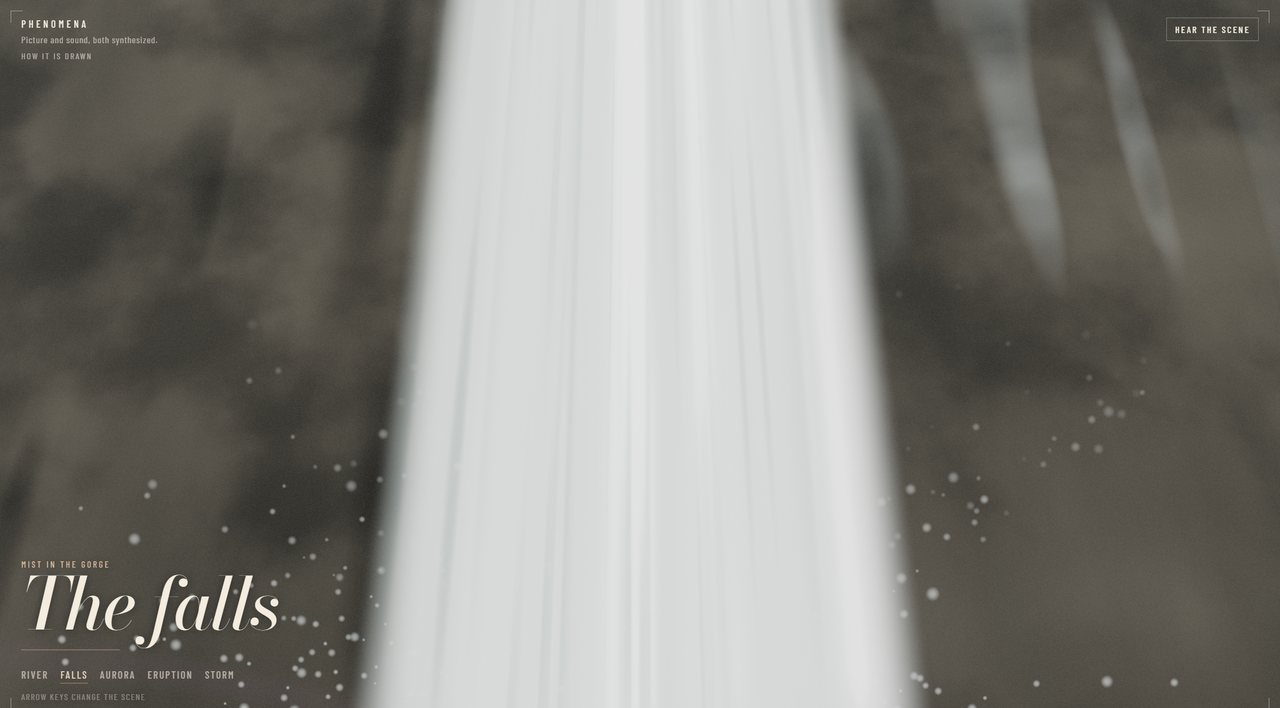
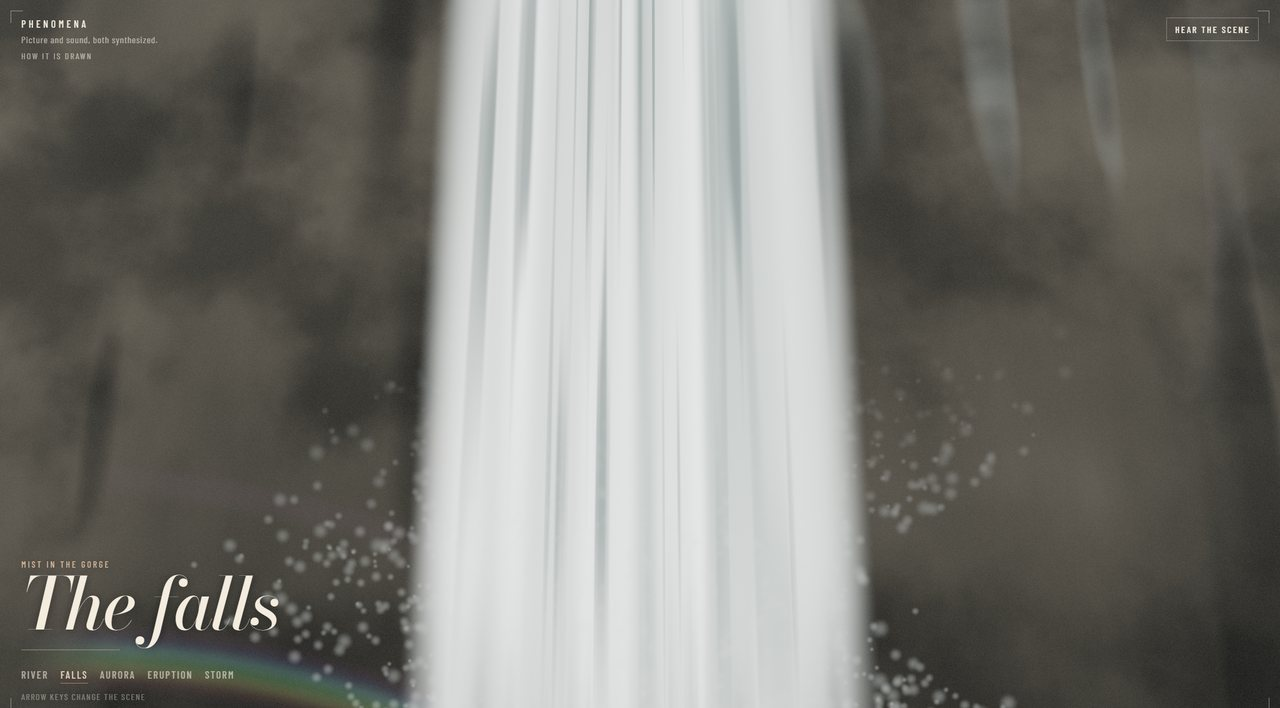
Make the scenes read more like photographs.
The sea uses smooth wave normals instead of the mesh facets, the river glitter is finer, the falls break into streaks, and the lava crust stays visible across the lake.

diff --git a/src/scenes/storm.js b/src/scenes/storm.js
@@ -47,7 +47,7 @@ export function createStorm() {
   const sky = createSky({ mode: 2, sun })
   root.add(sky.mesh)
 
-  const seaGeo = new THREE.PlaneGeometry(220, 220, 180, 180)
+  const seaGeo = new THREE.PlaneGeometry(220, 220, 280, 280)
   seaGeo.rotateX(-Math.PI / 2)
   const seaMat = new THREE.ShaderMaterial({
     uniforms: {
@@ -59,17 +59,17 @@ export function createStorm() {
     vertexShader: /* glsl */ `
       varying vec3 vWorld;
       uniform float uTime;
-      float wave(vec2 p) {
+      float seaH(vec2 p) {
         float h = 0.0;
-        h += sin(dot(p, vec2(0.16, 0.22)) + uTime * 0.55) * 0.42;
-        h += sin(dot(p, vec2(-0.31, 0.12)) + uTime * 0.8) * 0.22;
-        h += sin(dot(p, vec2(0.08, 0.48)) + uTime * 1.15) * 0.1;
-        h += sin(dot(p, vec2(0.7, -0.2)) + uTime * 1.5) * 0.04;
+        h += sin(dot(p, vec2(0.16, 0.22)) + uTime * 0.55) * 0.36;
+        h += sin(dot(p, vec2(-0.31, 0.12)) + uTime * 0.8) * 0.18;
+        h += sin(dot(p, vec2(0.55, 0.18)) + uTime * 1.15) * 0.07;
+        h += sin(dot(p, vec2(1.1, -0.45)) + uTime * 1.7) * 0.028;
         return h;
       }
       void main() {
         vec3 pos = position;
-        pos.y = wave(pos.xz);
+        pos.y = seaH(pos.xz);
         vec4 world = modelMatrix * vec4(pos, 1.0);
         vWorld = world.xyz;
         gl_Position = projectionMatrix * viewMatrix * world;
@@ -82,22 +82,35 @@ export function createStorm() {
       uniform float uFlash;
       uniform vec3 uSun;
       uniform vec3 uMoon;
+      float seaH(vec2 p) {
+        float h = 0.0;
+        h += sin(dot(p, vec2(0.16, 0.22)) + uTime * 0.55) * 0.36;
+        h += sin(dot(p, vec2(-0.31, 0.12)) + uTime * 0.8) * 0.18;
+        h += sin(dot(p, vec2(0.55, 0.18)) + uTime * 1.15) * 0.07;
+        h += sin(dot(p, vec2(1.1, -0.45)) + uTime * 1.7) * 0.028;
+        return h;
+      }
       void main() {
-        vec3 n = normalize(cross(dFdy(vWorld), dFdx(vWorld)));
-        if (dot(n, cameraPosition - vWorld) < 0.0) n = -n;
+        vec2 p = vWorld.xz;
+        float e = 0.18;
+        float h0 = seaH(p);
+        vec3 n = normalize(vec3(-(seaH(p + vec2(e, 0.0)) - h0) / e, 1.0, -(seaH(p + vec2(0.0, e)) - h0) / e));
+        float micro = vnoise(p * 2.8 + vec2(uTime * 0.15, -uTime * 0.08));
+        n = normalize(n + vec3(-dFdx(micro), 0.0, -dFdy(micro)) * 0.45);
         vec3 I = normalize(vWorld - cameraPosition);
         vec3 R = reflect(I, n);
         vec3 env = skyColor(R, uSun, uMoon, uTime, 2.0, uFlash, 0.0);
         float fres = pow(1.0 - max(dot(-I, n), 0.0), 5.0);
-        fres = mix(0.06, 1.0, fres);
-        vec3 deep = vec3(0.012, 0.02, 0.026);
-        vec3 col = mix(deep, env * vec3(0.55, 0.6, 0.64), fres);
-        float crest = smoothstep(0.42, 0.72, vWorld.y);
-        float foamNoise = vnoise(vWorld.xz * 1.4 + vec2(uTime * 0.15, -uTime * 0.05));
-        col = mix(col, vec3(0.62, 0.66, 0.68), crest * foamNoise * 0.65);
-        col += vec3(0.55, 0.6, 0.66) * uFlash * (0.18 + fres * 0.45);
-        float dist = length(vWorld.xz);
-        col = mix(col, vec3(0.16, 0.17, 0.18), 1.0 - exp(-dist * 0.012));
+        fres = mix(0.05, 1.0, fres);
+        vec3 deep = vec3(0.01, 0.018, 0.024);
+        vec3 col = mix(deep, env * vec3(0.45, 0.5, 0.55), fres);
+        float crest = smoothstep(0.22, 0.48, h0);
+        float foam = crest * smoothstep(0.55, 0.82, vnoise(p * 1.8 + vec2(uTime * 0.12, 0.0)));
+        foam *= smoothstep(0.35, 0.7, vnoise(vec2(dot(p, vec2(0.7, 0.2)) * 0.4, uTime * 0.05)));
+        col = mix(col, vec3(0.55, 0.58, 0.6), foam * 0.7);
+        col += vec3(0.55, 0.6, 0.66) * uFlash * (0.15 + fres * 0.5);
+        float dist = length(p);
+        col = mix(col, vec3(0.12, 0.13, 0.145), 1.0 - exp(-dist * 0.01));
         gl_FragColor = vec4(col, 1.0);
       }
     `,

diff --git a/src/scenes/river.js b/src/scenes/river.js
@@ -64,7 +64,9 @@ export function createRiver() {
       void main() {
         vec3 n = normalize(vNormal);
         float h = fbm(vWorld.xz * 2.4);
-        n = normalize(n - dFdx(vWorld) * dFdx(h) * 3.0 - dFdy(vWorld) * dFdy(h) * 3.0);
+        float grit = vnoise(vWorld.xz * 16.0);
+        n = normalize(n - dFdx(vWorld) * dFdx(h) * 1.4 - dFdy(vWorld) * dFdy(h) * 1.4);
+        n = normalize(n - dFdx(vWorld) * dFdx(grit) * 0.08 - dFdy(vWorld) * dFdy(grit) * 0.08);
         float grain = fbm(vWorld.xz * 0.85);
         float fine = fbm(vWorld.xz * 6.0);
         vec3 mud = vec3(0.17, 0.11, 0.06);
@@ -72,7 +74,8 @@ export function createRiver() {
         vec3 forest = vec3(0.07, 0.09, 0.045);
         vec3 albedo = mix(mud, grass, smoothstep(-0.05, 0.7, vWorld.y));
         albedo = mix(albedo, forest, smoothstep(1.1, 3.4, vWorld.y));
-        albedo *= 0.82 + 0.28 * grain;
+        albedo *= 0.78 + 0.34 * grain;
+        albedo = mix(albedo, albedo * (0.82 + 0.28 * grit), 0.55);
         albedo = mix(albedo, albedo * 0.72, fine * 0.35);
         float wet = smoothstep(0.85, 0.02, vWorld.y);
         albedo = mix(albedo, albedo * vec3(0.32, 0.28, 0.22), wet);
@@ -159,10 +162,8 @@ export function createRiver() {
         vec2 perp = vec2(-flow.y, flow.x);
         vec2 uv1 = vec2(dot(vWorld.xz, perp) * 0.55, dot(vWorld.xz, flow) * 0.35 - uTime * 0.35);
         vec2 uv2 = vec2(dot(vWorld.xz, perp) * 1.3, dot(vWorld.xz, flow) * 0.8 - uTime * 0.62);
-        float h = vnoise(uv1 * 4.0) * 0.55 + vnoise(uv2 * 7.0) * 0.3 + vnoise(uv2 * 16.0) * 0.15;
-        float hx = dFdx(h);
-        float hy = dFdy(h);
-        vec3 n = normalize(vec3(-hx * 1.7, 1.0, -hy * 1.7));
+        float h = vnoise(uv1 * 5.0) * 0.45 + vnoise(uv2 * 9.0) * 0.25 + vnoise(uv2 * 22.0) * 0.12;
+        vec3 n = normalize(vec3(-dFdx(h) * 2.4, 1.0, -dFdy(h) * 2.4));
         vec3 I = normalize(vWorld - cameraPosition);
         vec3 R = reflect(I, n);
         vec3 env = skyColor(R, uSun, uMoon, uTime, 0.0, 0.0, 0.0);
@@ -176,7 +177,7 @@ export function createRiver() {
         float broad = pow(max(dot(n, halfV), 0.0), 36.0);
         float glint = step(0.8, vnoise(vWorld.xz * 16.0 + vec2(0.0, -uTime * 0.5)));
         vec3 spec = vec3(1.0, 0.78, 0.48);
-        col += spec * (tight * 3.2 + broad * 0.18 + broad * glint * 2.2);
+        col += spec * (tight * 1.6 + broad * 0.08 + broad * glint * 2.8);
         float foam = edge * (0.35 + 0.65 * vnoise(uv2 * 2.0));
         col = mix(col, vec3(0.85, 0.72, 0.58), foam * 0.28);
         float dist = length(vWorld - cameraPosition);

diff --git a/src/scenes/falls.js b/src/scenes/falls.js
@@ -107,8 +107,10 @@ function waterSheet(width, height, speed) {
         float spray = smoothstep(0.22, 0.0, uv.y);
         float alpha = edge * (0.78 + 0.18 * streak);
         alpha *= mix(1.0, 0.25 + fine * 0.75, spray);
-        vec3 col = mix(vec3(0.62, 0.7, 0.68), vec3(0.97, 0.98, 0.97), 0.35 + 0.65 * streak);
-        col = mix(col, vec3(0.35, 0.45, 0.44), smoothstep(0.55, 0.95, fine) * (1.0 - spray) * 0.45);
+        vec3 col = mix(vec3(0.42, 0.5, 0.48), vec3(0.93, 0.95, 0.94), streak);
+        float vein = smoothstep(0.62, 0.92, fine);
+        col = mix(col, vec3(0.18, 0.24, 0.23), vein * (1.0 - spray) * 0.72);
+        col += vec3(0.9, 0.95, 0.93) * streak * (1.0 - vein) * 0.25;
         gl_FragColor = vec4(col, clamp(alpha, 0.0, 0.94));
       }
     `,
@@ -202,7 +204,7 @@ export function createFalls() {
   pool.renderOrder = 2
   root.add(pool)
 
-  const mistCount = 900
+  const mistCount = 1800
   const mistGeo = new THREE.BufferGeometry()
   const seeds = new Float32Array(mistCount)
   const sizes = new Float32Array(mistCount)
@@ -210,7 +212,7 @@ export function createFalls() {
   const rng = mulberry32(8)
   for (let i = 0; i < mistCount; i++) {
     seeds[i] = rng()
-    sizes[i] = 16 + rng() * 48
+    sizes[i] = 36 + rng() * 90
     base[i * 3] = (rng() - 0.5) * 3.2
     base[i * 3 + 1] = rng()
     base[i * 3 + 2] = rng()
@@ -244,9 +246,10 @@ export function createFalls() {
       void main() {
         float d = length(gl_PointCoord - 0.5);
         if (d > 0.5) discard;
-        float a = smoothstep(0.5, 0.05, d) * smoothstep(0.0, 0.15, vLife) * smoothstep(1.0, 0.55, vLife);
-        vec3 col = vec3(0.82, 0.86, 0.84);
-        gl_FragColor = vec4(col, a * 0.35);
+        float a = smoothstep(0.5, 0.0, d);
+        a *= smoothstep(0.0, 0.2, vLife) * smoothstep(1.0, 0.45, vLife);
+        vec3 col = vec3(0.78, 0.82, 0.8);
+        gl_FragColor = vec4(col, a * 0.16);
       }
     `,
   })
@@ -327,12 +330,12 @@ export function createFalls() {
     fov: 42,
     drift: 0.08,
     parallax: 0.22,
-    bloom: 0.18,
-    threshold: 0.86,
+    bloom: 0.1,
+    threshold: 0.9,
     radius: 0.28,
     exposure: 0.92,
-    cameraPos: new THREE.Vector3(0.2, 1.45, 6.4),
-    cameraTarget: new THREE.Vector3(0, 4.4, 0.2),
+    cameraPos: new THREE.Vector3(0.15, 1.7, 7.6),
+    cameraTarget: new THREE.Vector3(0, 3.6, 0.3),
     update(time) {
       sky.uniforms.uTime.value = time
       for (const sheet of sheets) sheet.mat.uniforms.uTime.value = time

diff --git a/src/scenes/eruption.js b/src/scenes/eruption.js
@@ -121,12 +121,13 @@ export function createEruption() {
           vec2 p = vWorld.xz * 0.55;
           float flow = fbm(p * 1.6 + vec2(0.0, -uTime * 0.05));
           float n = fbm(p * 2.4 + vec2(sin(uTime * 0.07), -uTime * 0.08));
-          float crack = smoothstep(0.09, 0.0, abs(n - 0.5));
-          crack = max(crack, smoothstep(0.055, 0.0, abs(fbm(p * 5.5 + vec2(uTime * 0.03, -uTime * 0.1)) - 0.46)));
-          float hot = clamp(crack * (0.75 + uEnergy), 0.0, 1.0);
-          vec3 crust = vec3(0.015, 0.01, 0.008) * (0.7 + 0.4 * flow);
-          vec3 col = mix(crust, blackbody(0.55 + 0.45 * hot), hot);
-          col *= mix(0.15, 2.6, hot);
+          float crack = smoothstep(0.2, 0.02, abs(n - 0.5));
+          crack = max(crack, smoothstep(0.12, 0.0, abs(fbm(p * 5.5 + vec2(uTime * 0.03, -uTime * 0.1)) - 0.46)));
+          float plates = smoothstep(0.35, 0.7, flow);
+          float hot = clamp(crack * (0.85 + uEnergy) + plates * 0.18, 0.0, 1.0);
+          vec3 crust = vec3(0.012, 0.008, 0.006) * (0.45 + 0.7 * plates);
+          vec3 col = mix(crust, blackbody(0.5 + 0.5 * hot), smoothstep(0.05, 0.55, hot));
+          col *= mix(0.35, 2.8, hot);
           float rim = smoothstep(0.95, 0.55, vUv.y);
           col += blackbody(0.8) * rim * hot * 0.3;
           gl_FragColor = vec4(col, 1.0);
@@ -209,7 +210,7 @@ export function createEruption() {
             vec3 hot = vec3(0.42, 0.2, 0.1);
             vec3 ash = vec3(0.1, 0.09, 0.085);
             vec3 col = mix(hot, ash, vH);
-            float a = soft * fade * 0.28;
+            float a = soft * fade * 0.42;
             gl_FragColor = vec4(col, a);
           }
         }
@@ -221,7 +222,7 @@ export function createEruption() {
     return { points, mat }
   }
 
-  const smoke = plume(4200, 'smoke')
+  const smoke = plume(6500, 'smoke')
   const fire = plume(700, 'fire')
   root.add(smoke.points)
   root.add(fire.points)
@@ -245,7 +246,7 @@ export function createEruption() {
     radius: 0.35,
     exposure: 0.95,
     cameraPos: new THREE.Vector3(cx, cy, cz),
-    cameraTarget: new THREE.Vector3(-cx * 0.72, cy - 0.35, -cz * 0.72),
+    cameraTarget: new THREE.Vector3(-cx * 0.35, cy - 2.1, -cz * 0.35),
     update(time) {
       const energy = eruptionEnergy(time)
       sky.uniforms.uTime.value = time

diff --git a/src/rocks.js b/src/rocks.js
@@ -34,12 +34,14 @@ void main() {
   albedo *= mix(1.0, 0.62, uWet);
   vec3 sun = normalize(uSunDir);
   float ndl = max(dot(n, sun), 0.0);
-  vec3 hemi = mix(vec3(0.07, 0.06, 0.05), uSunColor * 0.25, n.y * 0.5 + 0.5);
-  vec3 col = albedo * (hemi + uSunColor * ndl * 1.15);
+  float wrap = ndl * 0.72 + 0.28;
+  vec3 hemi = mix(vec3(0.1, 0.08, 0.06), uSunColor * 0.35, n.y * 0.5 + 0.5);
+  vec3 col = albedo * (hemi + uSunColor * wrap * 1.25);
   vec3 view = normalize(cameraPosition - vWorld);
   vec3 halfV = normalize(sun + view);
-  float spec = pow(max(dot(n, halfV), 0.0), mix(16.0, 110.0, uWet));
-  col += uSunColor * spec * (0.08 + uWet * 0.55);
+  float spec = pow(max(dot(n, halfV), 0.0), mix(18.0, 90.0, uWet));
+  float chip = step(0.62, vnoise(vWorld.xz * 12.0 + vWorld.y));
+  col += uSunColor * spec * (0.12 + uWet * 0.7) * (0.35 + 0.65 * chip);
   gl_FragColor = vec4(col, 1.0);
 }
 `
@@ -58,7 +60,7 @@ function materialFor(key, uniforms) {
 }
 
 export function rockGeometry(seed, radius) {
-  const geo = new THREE.IcosahedronGeometry(radius, 2)
+  const geo = new THREE.IcosahedronGeometry(radius, 3)
   const pos = geo.attributes.position
   const v = new THREE.Vector3()
   for (let i = 0; i < pos.count; i++) {

diff --git a/src/lib.glsl.js b/src/lib.glsl.js
@@ -112,7 +112,7 @@ vec3 skyColor(vec3 rd, vec3 sun, vec3 moon, float time, float mode, float flash,
     vec3 zenith = vec3(0.035, 0.042, 0.05);
     vec3 hor = vec3(0.15, 0.16, 0.17);
     col = mix(hor, zenith, smoothstep(0.0, 0.55, h));
-    col += vec3(0.75, 0.8, 0.85) * flash * exp(-abs(h) * 1.2) * 0.9;
+    col += vec3(0.75, 0.8, 0.85) * flash * exp(-abs(h) * 1.6) * 0.28;
   } else {
     vec3 zenith = vec3(0.26, 0.46, 0.78);
     vec3 hor = vec3(0.70, 0.80, 0.84);
@@ -136,7 +136,7 @@ vec3 skyColor(vec3 rd, vec3 sun, vec3 moon, float time, float mode, float flash,
     if (mode > 1.5 && mode < 2.5) {
       float d = smoothstep(0.32, 0.66, n);
       vec3 cloud = mix(vec3(0.025, 0.03, 0.034), vec3(0.62, 0.66, 0.7), clamp(flash, 0.0, 1.0));
-      cloud += vec3(0.9, 0.95, 1.0) * flash * smoothstep(0.5, 0.85, n2) * 0.45;
+      cloud += vec3(0.9, 0.95, 1.0) * flash * smoothstep(0.5, 0.85, n2) * 0.22;
       col = mix(col, cloud, d * 0.95);
     } else if (mode < 0.5) {
       float d = smoothstep(0.40, 0.66, n);

diff --git a/src/scenes/aurora.js b/src/scenes/aurora.js
@@ -147,7 +147,7 @@ export function createAurora() {
         void main() {
           vec2 uv = vWorld.xz * 0.22;
           float h = vnoise(uv * 2.0 + uTime * 0.04) * 0.7 + vnoise(uv * 5.0 - uTime * 0.06) * 0.3;
-          vec3 n = normalize(vec3(-dFdx(h) * 1.6, 1.0, -dFdy(h) * 1.6));
+          vec3 n = normalize(vec3(-dFdx(h) * 0.7, 1.0, -dFdy(h) * 0.7));
           vec3 I = normalize(vWorld - cameraPosition);
           vec3 R = reflect(I, n);
           vec3 env = skyColor(R, uSun, uMoon, uTime, 1.0, 0.0, 1.0);
